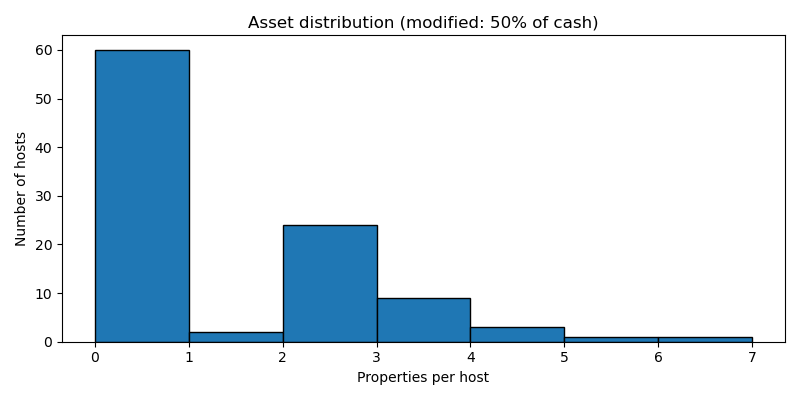
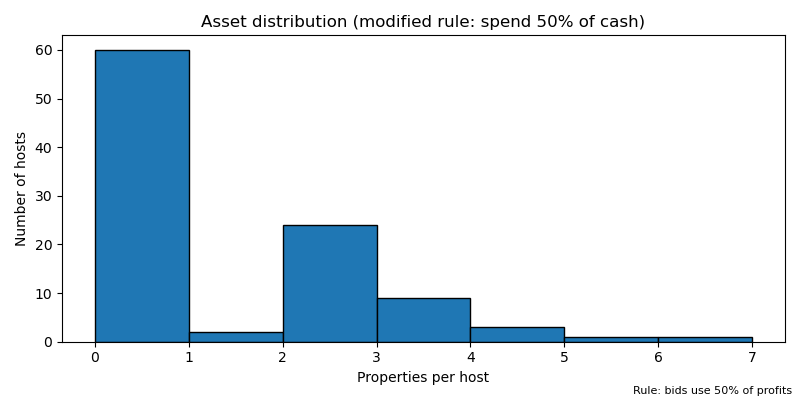
docs: add rule change snippet and clarify graphs

Changed region(s): [[0.25, 0.03, 0.8125, 0.09], [0.7812, 0.96, 1.0, 0.99]]

diff --git a/main.py b/main.py
@@ -81,7 +81,8 @@ if __name__ == "__main__":
     plt.hist(asset_counts_v0, bins=range(0, max_assets + 2), edgecolor="black")
     plt.xlabel("Properties per host")
     plt.ylabel("Number of hosts")
-    plt.title("Asset distribution (original rule)")
+    plt.title("Asset distribution (original rule: spend 100% of cash)")
+    plt.figtext(0.99, 0.01, "Rule: bids use all profits", ha="right", va="bottom", fontsize=8)
     plt.tight_layout()
     plt.savefig("reports/graph2_v0.png")
     plt.close()
@@ -94,7 +95,8 @@ if __name__ == "__main__":
     plt.hist(asset_counts_v1, bins=range(0, max_assets_v1 + 2), edgecolor="black")
     plt.xlabel("Properties per host")
     plt.ylabel("Number of hosts")
-    plt.title("Asset distribution (modified: 50% of cash)")
+    plt.title("Asset distribution (modified rule: spend 50% of cash)")
+    plt.figtext(0.99, 0.01, "Rule: bids use 50% of profits", ha="right", va="bottom", fontsize=8)
     plt.tight_layout()
     plt.savefig("reports/graph2_v1.png")
     plt.close()

diff --git a/README.md b/README.md
@@ -77,3 +77,20 @@ Datasets (Inside Airbnb downloads)
 - Barcelona calendar (June 2025): https://data.insideairbnb.com/spain/catalonia/barcelona/2025-06-26/data/calendar.csv.gz
 - Madrid listings (June 2025): https://data.insideairbnb.com/spain/community-of-madrid/madrid/2025-06-27/data/listings.csv.gz
 - Madrid calendar (June 2025): https://data.insideairbnb.com/spain/community-of-madrid/madrid/2025-06-27/data/calendar.csv.gz
+
+Rule change snippet (Part 1)
+- Original (commented in `src/final_project/hosts.py`): each host bids using 100% of its profits.
+- Modified (active): each host only uses a fraction of its profits (here 50%) → bids are smaller, fewer quick takeovers.
+```python
+# original rule
+# if self.profits >= ask_price:
+#     spread = self.profits - ask_price
+#     bids.append({... "bid_price": self.profits})
+
+# modified rule (active)
+budget = self.profits * self.bid_spend_fraction  # e.g., 0.5
+if budget >= ask_price:
+    spread = budget - ask_price
+    bids.append({... "bid_price": budget})
+```
+Effect we expected: limiting cash per bid slows aggressive expansion and should reduce extreme concentration. Graphs `reports/graph2_v0.png` (original) vs `graph2_v1.png` (modified) show the distribution of properties per host under each rule.
